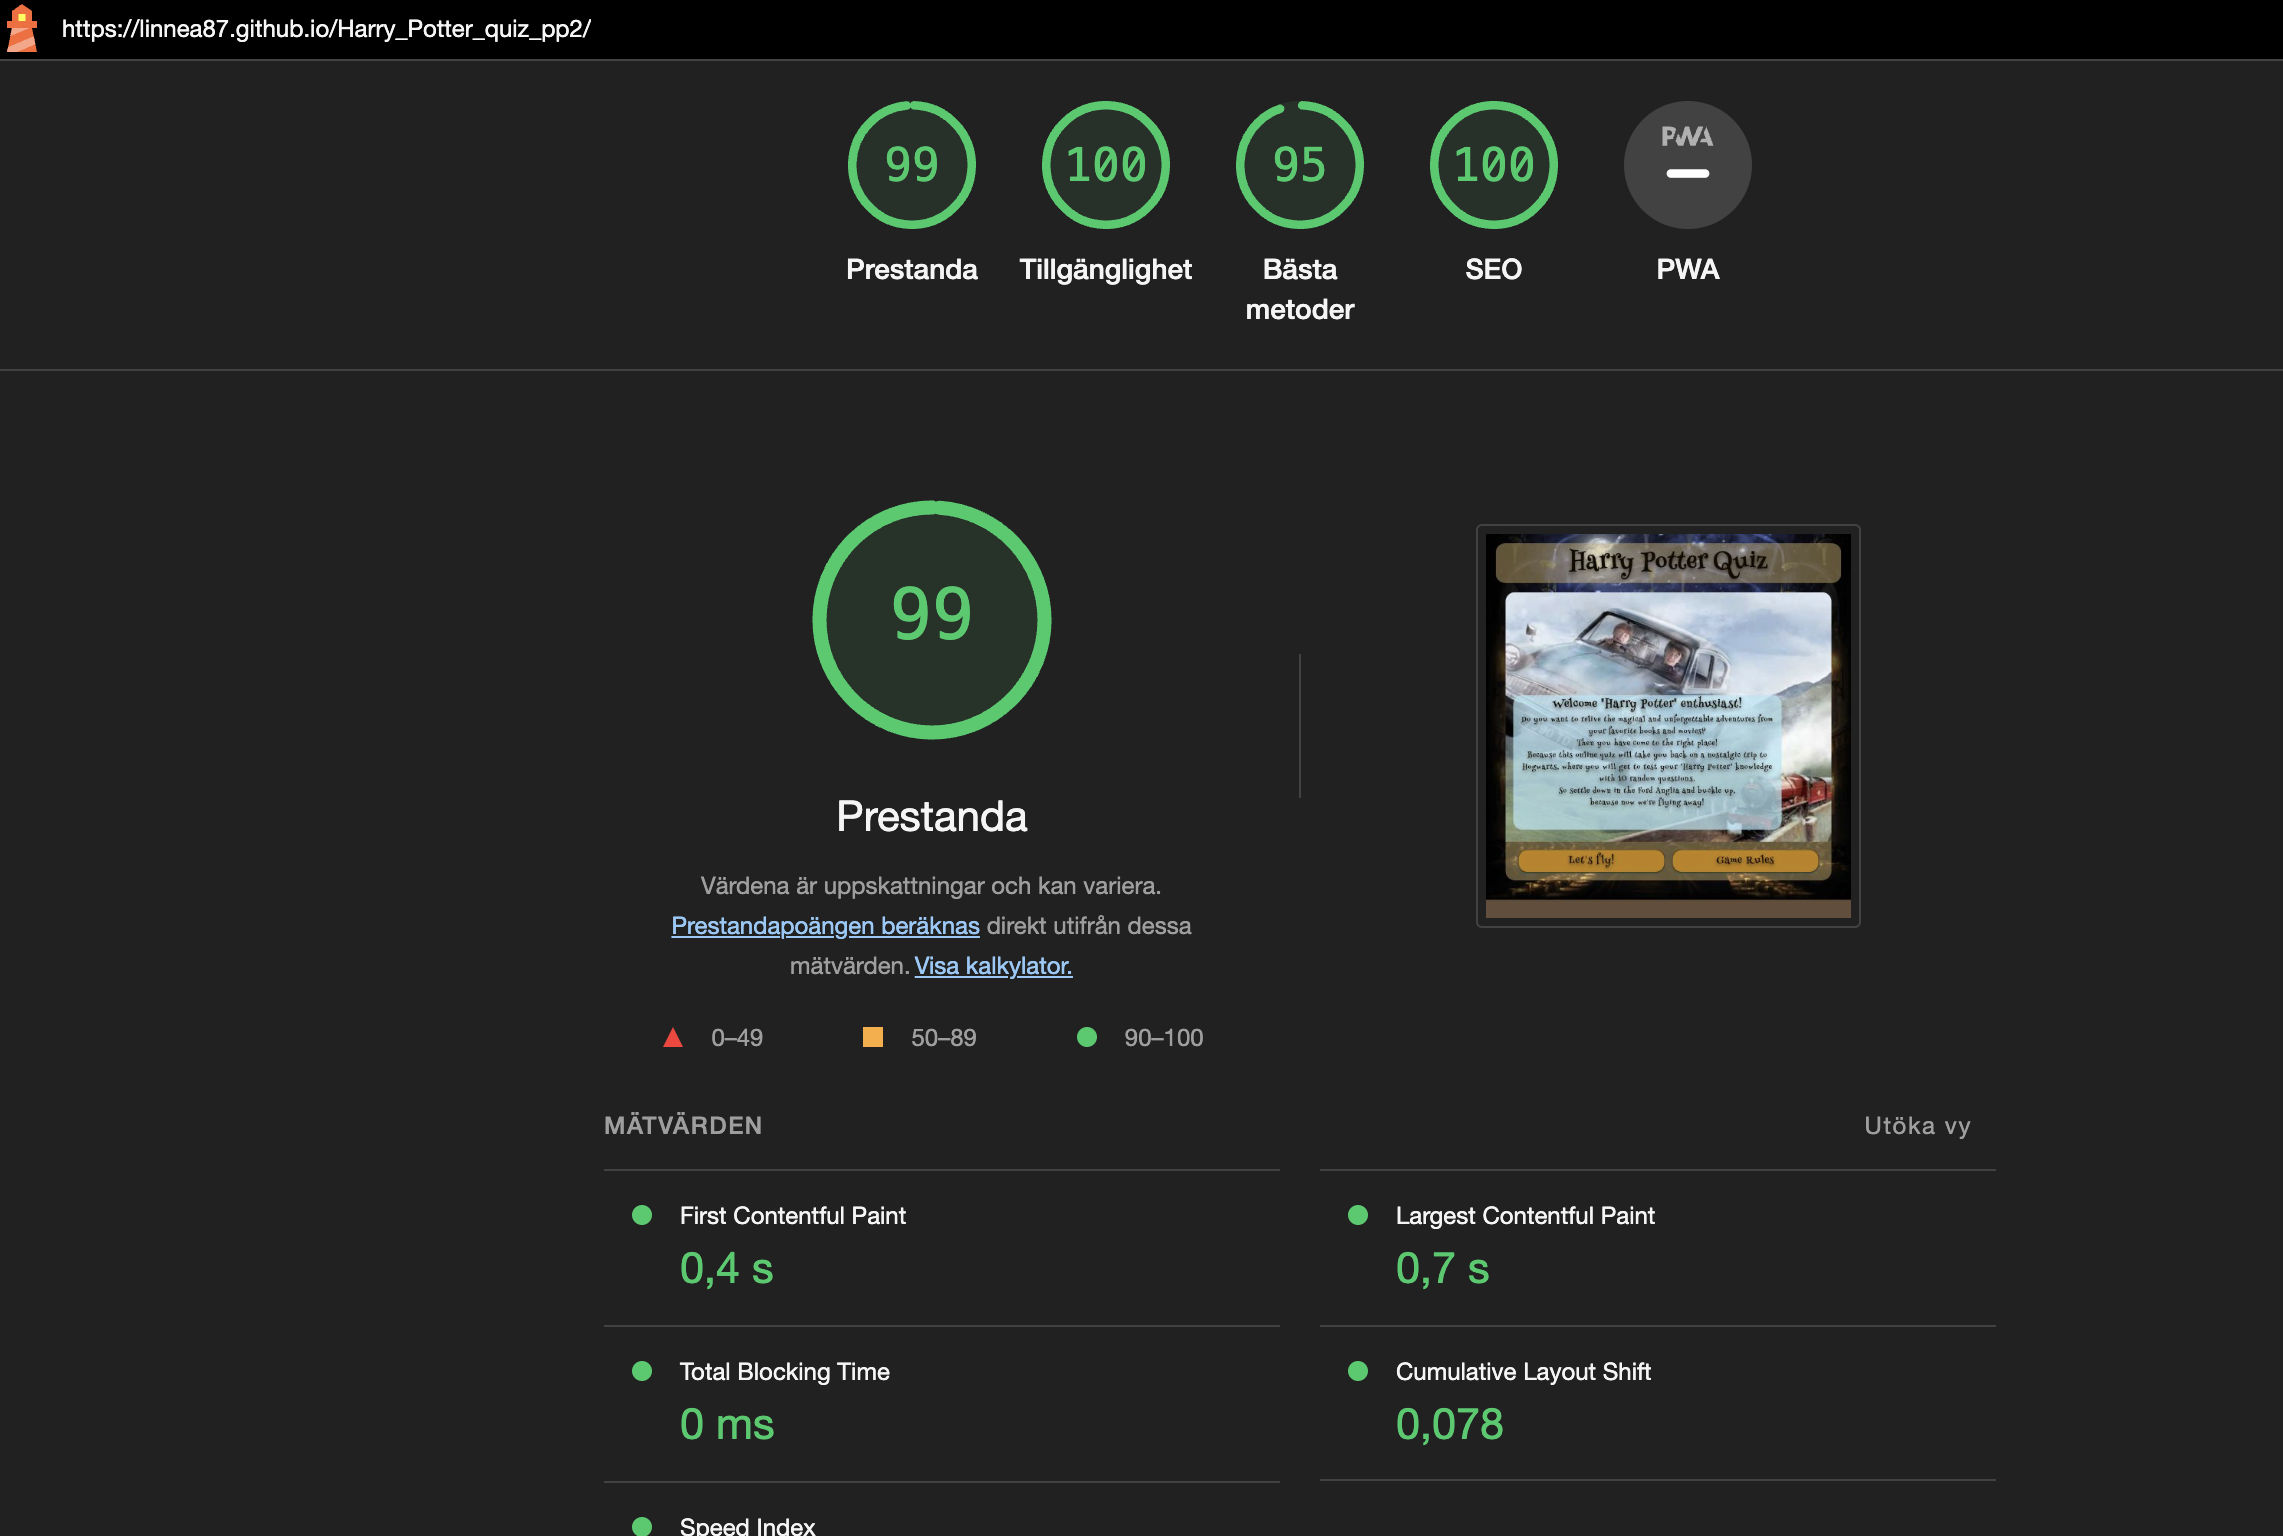
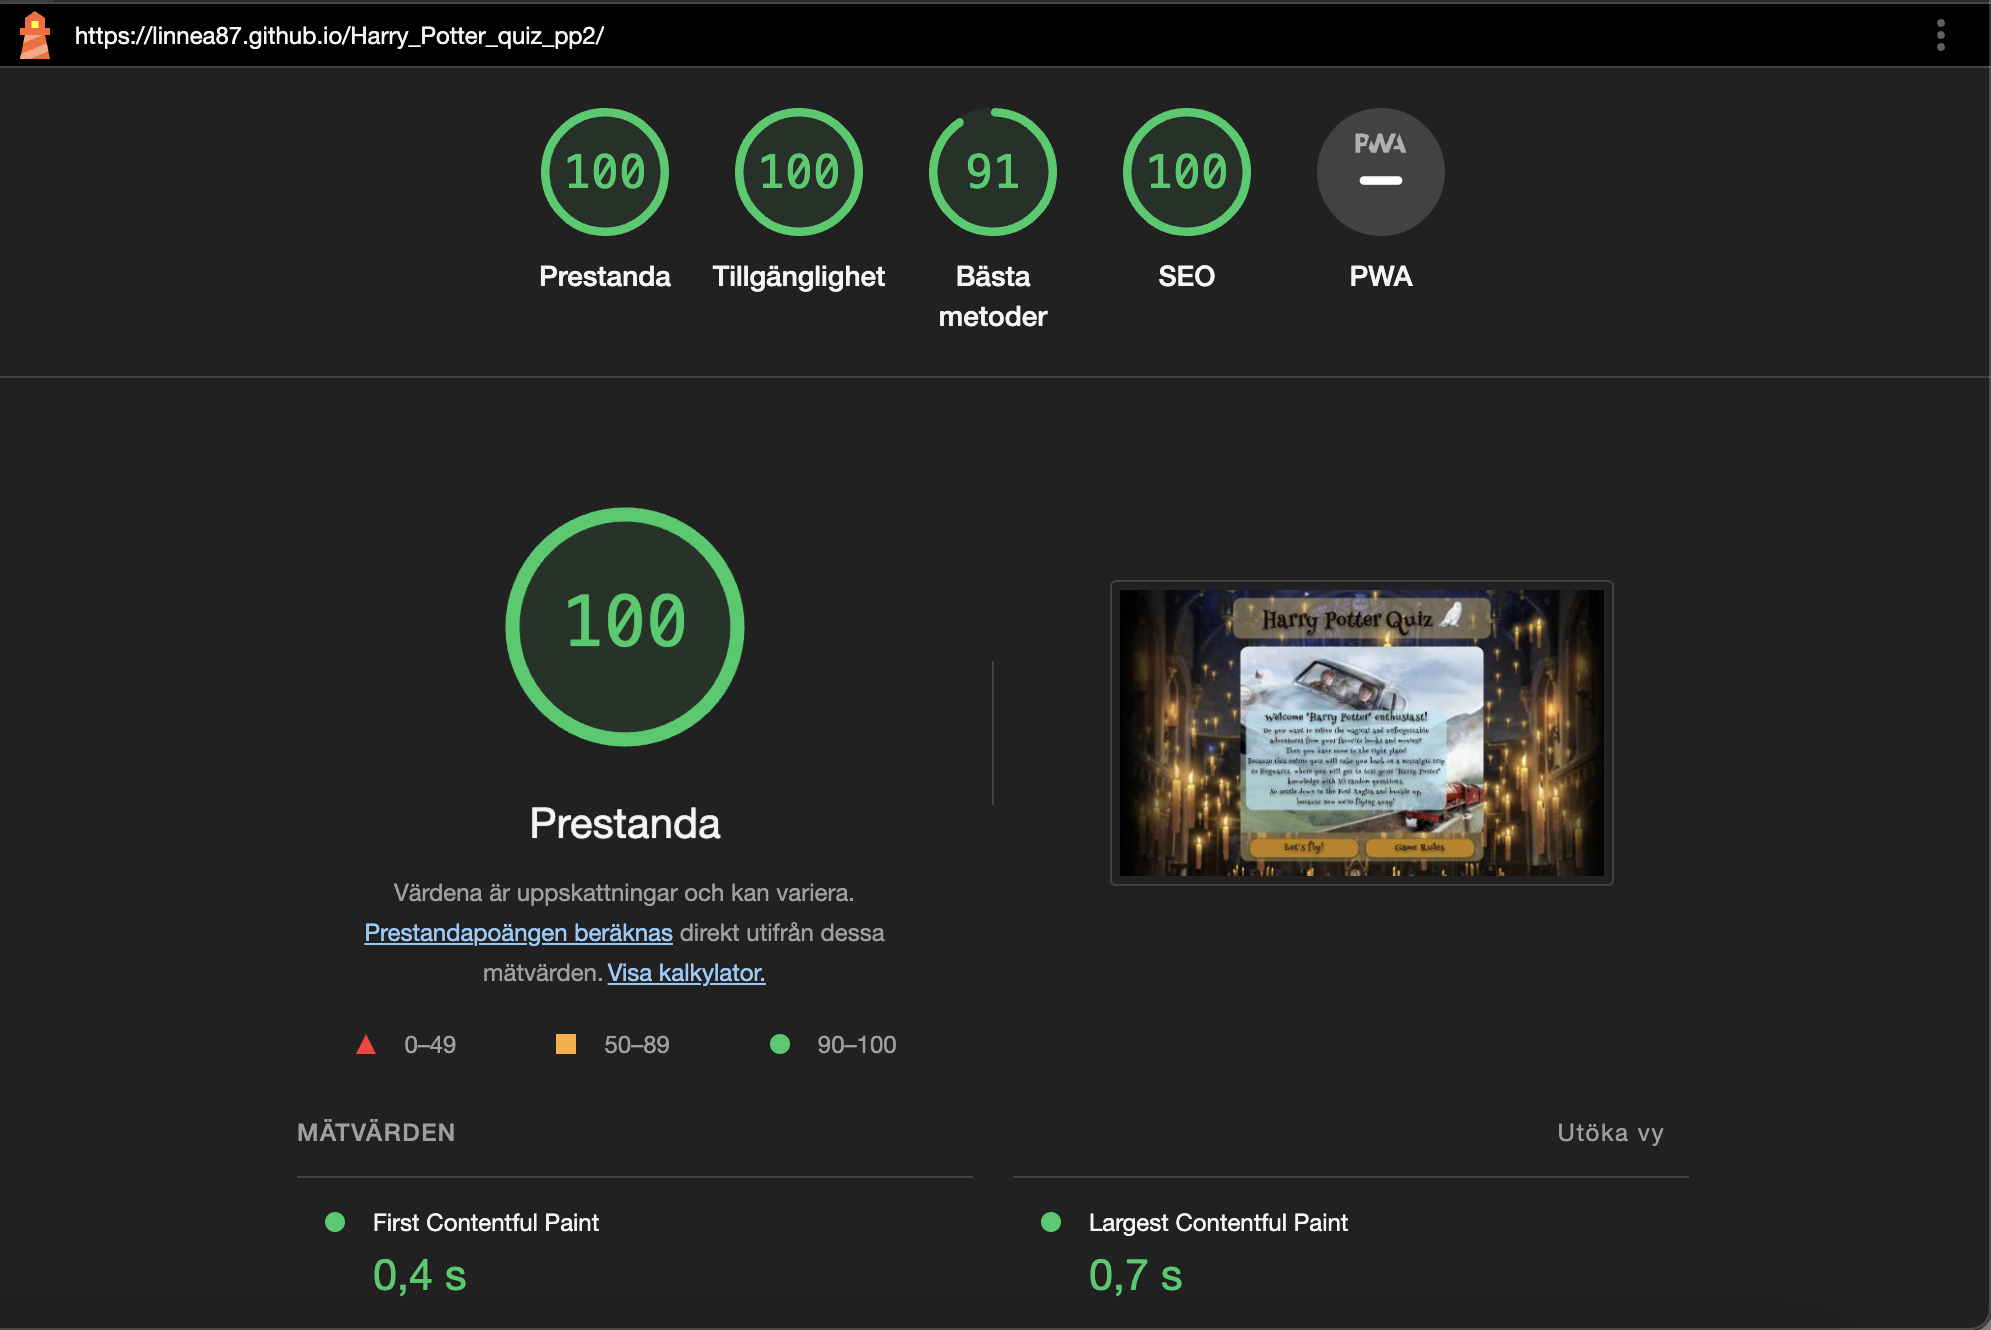
Add content to README.md

diff --git a/README.md b/README.md
@@ -1,7 +1,24 @@
 # Harry Potter quiz - Project 2
+
+This is a quiz with 10 random questions about Harry Potter. The page can be found here [Harry Potter Quiz](https://linnea87.github.io/Harry_Potter_quiz_pp2/)
+
+The purpose of this website is partly to create a simple quiz based game, where users get the opportunity to test their Harry Potter knowledge. But even where I get to challenge myself in my knowledge of Html, CSS and JavaScript.
+
+## Project Goals
+* Create a game that attracts and inspires the user to want to stay and play.
+* Create a game that is responsive on all devises.
+* Create a game with no errors
+* Create a game for the user to interact with.
+* Create a game that is easy for the user to understand.
+* Create a game with rulses for the user to read
+* create a game where the user can see their scores.
+
+
 ## Design
+I wanted to design a Harry Potter game that evokes the feeling of being part of Hogwarts and its magical world in the user. I have chosen colors, images, fonts and mouse pointers in detail to succeed in creating this feeling for the user. 
+
 ### Wireframes
-I used wierframes from Balsamiq for this page. These wireframes are just rough sketches of how I thought the page would look and therefore they may differ from how the finished page looks.
+I used wierframes from Balsamiq for this page. These wireframes are rough sketches of how I thought the site could be built to achieve the design I envisioned. Therefore, these sketches may differ from what the actual website looks like.
 
 #### Desktop 
 ![index](docs/wireframes/desktop-index.png)
@@ -11,7 +28,7 @@ I used wierframes from Balsamiq for this page. These wireframes are just rough s
 ![index](docs/wireframes/tablet-index.png)
 ![question](docs/wireframes/tablet-question.png)
 
-#### Phone
+#### Mobile
 ![index](docs/wireframes/phone-index.png)
 ![question](docs/wireframes/phone-question.png)
 
@@ -19,7 +36,6 @@ I used wierframes from Balsamiq for this page. These wireframes are just rough s
 I used the <https://coolors.co> tool where I uploaded the background image to create a color scheme that I have since based on when making my color choices.
 
 ![Color-scheme](docs/wireframes/Color.png)
-
 
 ## Deployment
 ### Adding, committing and pushing code
@@ -60,6 +76,15 @@ I used the <https://coolors.co> tool where I uploaded the background image to cr
 ![Jshint-questions.js](docs/jshint-questions.png)
 
 ### Lighthouse
+I used Lighthouse in Chrome Dev when i tested the site for both Mobile and Desktop, and got good result on prestanda for both devices. 
+
+#### Desktop
+![Lighthouse-Desktop](docs/lighthouse.png)
+
+#### Mobile
+
+![Lighthouse-Mobile](docs/lighthouse-mobile.png)
+
 
 
 ## Credits
@@ -67,29 +92,31 @@ I used the <https://coolors.co> tool where I uploaded the background image to cr
 All quiz questions and answers are from [AhaSlides](https://ahaslides.com/sv/blog/40-harry-potter-quiz-questions-and-answers/)
 ### Code
 ### Images and Icons
-1. The favicon icon is from [icons8](https://icons8.com/icon/set/harry-potter/wired) and has been converted with the [favicon.io](https://favicon.io/favicon-converter/) converter.
+* The favicon icon is taken from [icons8](https://icons8.com/icon/set/harry-potter/wired) and has been converted with the [favicon.io](https://favicon.io/favicon-converter/) converter.
 
-2. The q1 image is from [harrypotterfanzone](https://www.harrypotterfanzone.com/pictures/mad-eye-moody-demonstrates-the-unforgivable-curses/) 
+*  The q1 image is taken from [harrypotterfanzone](https://www.harrypotterfanzone.com/pictures/mad-eye-moody-demonstrates-the-unforgivable-curses/) 
 
-3. The q2 image is from [quotev](https://www.quotev.com/story/12951251/Draco-Malfoy-The-Cup-Of-Holy-Sh-/15)
+* The q2 image is taken from [quotev](https://www.quotev.com/story/12951251/Draco-Malfoy-The-Cup-Of-Holy-Sh-/15)
 
-4. The q4 image is from [snapchat](https://t.snapchat.com/vEE1NbA4)
+* The q4 image is taken from [snapchat](https://t.snapchat.com/vEE1NbA4)
 
-5. The q5 image is from [honorshogwarts04](https://honorshogwarts04.files.wordpress.com/2015/09/obliviate-4.jpg?w=640)
+* The q5 image is taken from [honorshogwarts04](https://honorshogwarts04.files.wordpress.com/2015/09/obliviate-4.jpg?w=640)
 
-6. The q6 image is from [merchoid](https://www.merchoid.com/media/mf_webp/jpg/media/catalog/product/cache/65c63282a2b3bd0da0ec5b004bcde549/h/a/harrypotter_quidditch_set_9.webp)
+* The q6 image is taken from [merchoid](https://www.merchoid.com/media/mf_webp/jpg/media/catalog/product/cache/65c63282a2b3bd0da0ec5b004bcde549/h/a/harrypotter_quidditch_set_9.webp)
 
-7. The q12 image is from [pinterest](https://www.pinterest.se/pin/671247519454677884/)
+* The q12 image is taken from [pinterest](https://www.pinterest.se/pin/671247519454677884/)
 
-8. The q18 image is from [wizardingworld](https://www.wizardingworld.com/fact-file/characters-and-pets/fang)
+* The q18 image is taken from [wizardingworld](https://www.wizardingworld.com/fact-file/characters-and-pets/fang)
 
-9. The q7-q11, q13-q17 and q19-q20 images is from [wallpapers](https://wallpapers.com/)
+* The q7-q11, q13-q17 and q19-q20 images is taken from [wallpapers](https://wallpapers.com/)
 
-10. The rules image is from [pinterest](https://www.pinterest.se/pin/641622278133693828/)
+* The rules image is taken from [pinterest](https://www.pinterest.se/pin/641622278133693828/)
 
-11. The B1-background image is from [imgix](https://imgix.bustle.com/rehost/2016/9/13/4e0b261d-8796-4462-86ec-ee29ceb41e1b.png?w=800&fit=crop&crop=faces&auto=format%2Ccompress&q=50&dpr=2)
+* The B1-background image is taken from [imgix](https://imgix.bustle.com/rehost/2016/9/13/4e0b261d-8796-4462-86ec-ee29ceb41e1b.png?w=800&fit=crop&crop=faces&auto=format%2Ccompress&q=50&dpr=2)
 
-12. The i.webp image are from [wallpapers](https://wallpapers.com/)
+* The i.webp image is taken from [wallpapers](https://wallpapers.com/)
+
+* The 108743720_max image is taken from [fruugo](https://www.fruugo.se/     hedwig-officiella-harry-potter-kartong-cutout-standee-standup/p-42895913-87507724)
 
 
 
